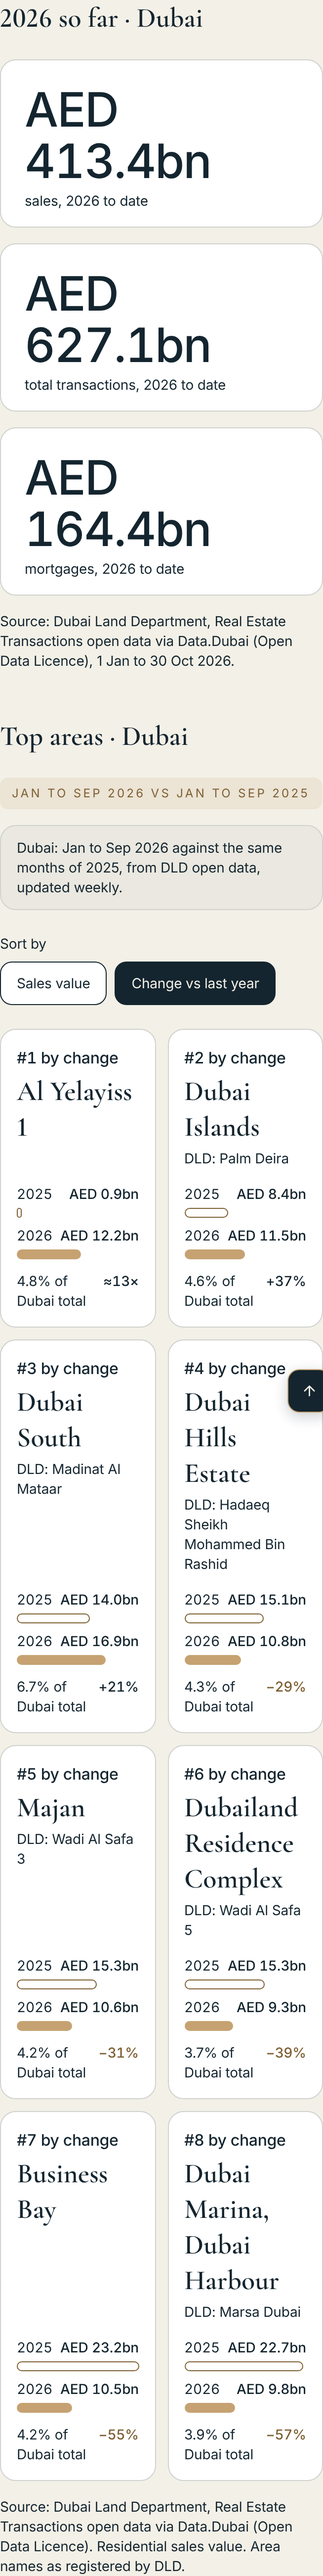
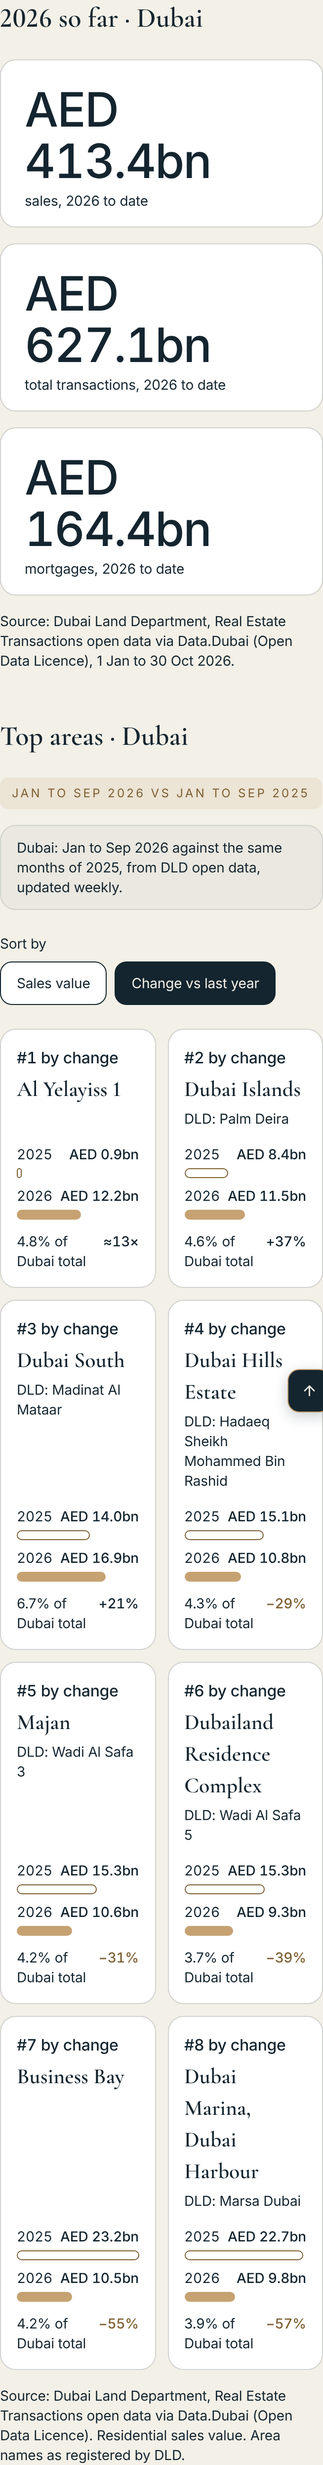
fix(site): card headings never break inside a word; Q3 cards common name first
Coordinator review 2, 2026-11-07.

- Card headings: no overflow-wrap or word-break; 22px (the smallest
  Cormorant size) up to 40rem. Grids of four go to one column below
  21rem (336px): the longest heading word, "Hudayriyat" at 22px, is 96px,
  and a two-column card is (screen - 60px) / 2 - 32px wide; with an 8px
  margin that needs 336px. The design rules allow the upright 22px step
  for .dc-name only.
- Insights Q3 top 8 cards: common name first, "DLD: <name>" under it,
  taken from the table label's brackets; Business Bay and Al Yufrah 1
  have no sub line. The table is unchanged.
- Tests: a browser check that no card heading word is split across
  lines at 320, 375 and 414 (it fails on the old CSS), the column
  breakpoint, and the Q3 card names.
- Screenshots: /areas Dubai and Abu Dhabi in both sorts at 375, the
  November article at 375 and 1280.

Claude-Session: https://claude.ai/code/session_015pNCMgX6oo7DsZghVwMfQc

diff --git a/site/src/styles/data-card.css b/site/src/styles/data-card.css
@@ -9,6 +9,10 @@
 /* /areas: 4 columns, 2 at 900px and below (phone included). */
 .dc-grid--4 { grid-template-columns: repeat(4, minmax(0, 1fr)); }
 @media (max-width: 900px) { .dc-grid--4 { grid-template-columns: repeat(2, minmax(0, 1fr)); gap: var(--space-3); } }
+/* One column below 21rem (336px): a card heading never breaks inside a word (Coordinator review 2). A two-column card's
+   text is (screen - 48px page padding - 12px gap) / 2 - 32px card padding wide; the longest heading word, "Hudayriyat" at
+   22px Cormorant 600, is 96px, plus an 8px margin for font rendering = 104px, which needs a 336px screen. */
+@media (max-width: 21rem) { .dc-grid--4 { grid-template-columns: 1fr; } }
 /* Insights tables: 2 columns, 1 on a phone (the row labels are long). */
 .dc-grid--2 { grid-template-columns: repeat(2, minmax(0, 1fr)); }
 @media (max-width: 36rem) { .dc-grid--2 { grid-template-columns: 1fr; } }
@@ -21,7 +25,10 @@
 .dc--single { padding: var(--space-6); }
 .dc > * { margin: 0; }
 .dc-rank { font-size: var(--fs-data); line-height: var(--lh-data); letter-spacing: var(--ls-data); font-weight: 500; font-variant-numeric: lining-nums tabular-nums; }
-.dc-name { font-size: var(--fs-heading); line-height: var(--lh-heading); letter-spacing: 0; margin-top: var(--space-1); overflow-wrap: anywhere; font-variant-numeric: lining-nums; }
+/* Card headings break between words only, never inside one (no overflow-wrap or word-break). On a phone they use the
+   smallest Cormorant size, 22px (Coordinator review 2, 2026-11-07). */
+.dc-name { font-size: var(--fs-heading); line-height: var(--lh-heading); letter-spacing: 0; margin-top: var(--space-1); overflow-wrap: normal; word-break: normal; hyphens: manual; font-variant-numeric: lining-nums; }
+@media (max-width: 40rem) { .dc-name { font-size: var(--fs-tagline); line-height: var(--lh-tagline); } }
 .dc-official { font-size: var(--fs-small); line-height: var(--lh-small); letter-spacing: var(--ls-small); margin-top: var(--space-1); overflow-wrap: anywhere; }
 .dc-value { font-family: var(--sans); font-weight: 500; font-size: var(--fs-stat); line-height: var(--lh-stat); letter-spacing: var(--ls-stat); margin-top: var(--space-3); font-variant-numeric: lining-nums tabular-nums; }
 .dc-grid .dc-value { font-size: var(--fs-data); line-height: var(--lh-data); letter-spacing: var(--ls-data); margin-top: auto; padding-top: var(--space-3); }
